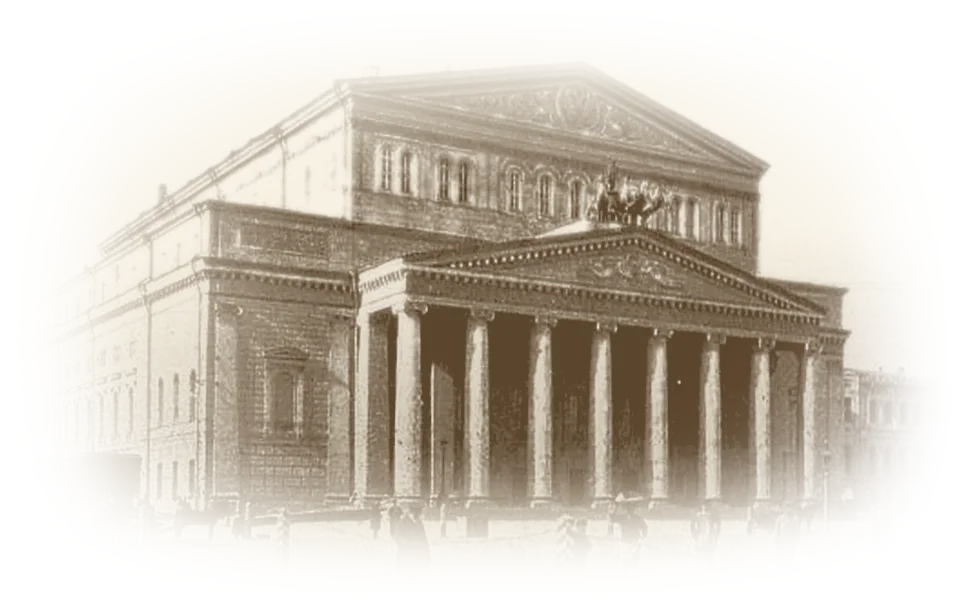
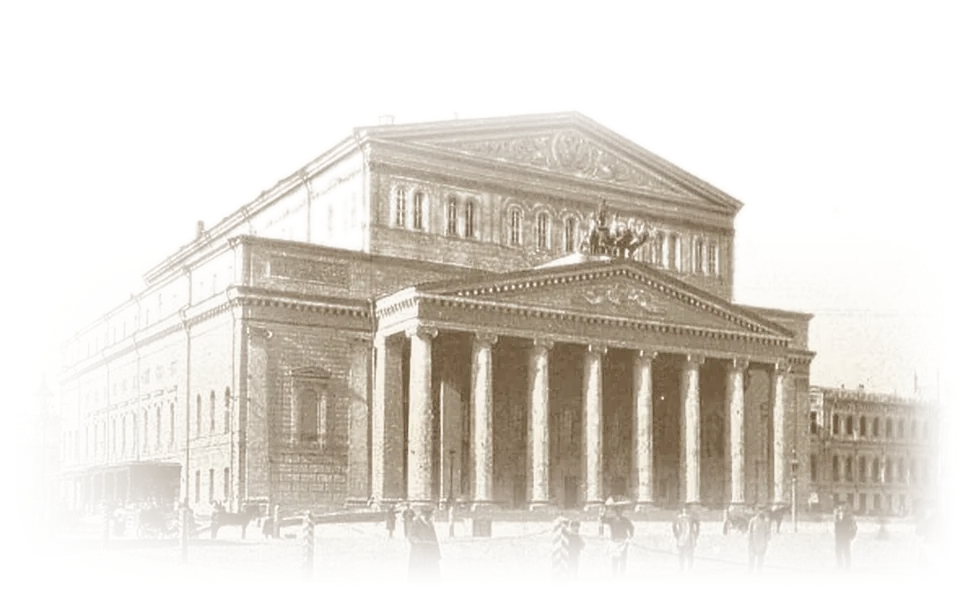
Hero: drop the Goznak photo; conservatory and Bolshoi in symmetry behind the figure
Owner's request. Both views share one tone curve and one ground line,
one CSS mask fades the panorama, and on phones the buildings now stand
behind the portrait instead of in a strip under the text.

Claude-Session: https://claude.ai/code/session_01KvyHv4d15xEBYz3aRTqu1A

diff --git a/about.html b/about.html
@@ -107,12 +107,10 @@ nav a.active::after{content:"";position:absolute;left:var(--s-3);right:var(--s-3
 
 /* ---------- Hero: the portrait before the three Moscow addresses ---------- */
 .hero{position:relative;isolation:isolate;overflow:hidden;padding-block:var(--s-5) var(--s-8);text-align:center}
-.city{position:absolute;z-index:-1;top:var(--s-6);left:50%;transform:translateX(-50%);width:min(100vw,1920px,152svh);display:flex;justify-content:center;align-items:flex-end;pointer-events:none}
-.city img{display:block;height:auto;max-width:none;flex:none}
-/* one continuous panorama: the side views overlap the theatre so no paper shows between them */
-.city-b{width:42%;z-index:0}
-.city-c{width:36%;margin-right:-8%;z-index:1}
-.city-g{width:36%;margin-left:-8%;z-index:1}
+.city{position:absolute;z-index:-1;top:var(--s-6);left:50%;transform:translateX(-50%);width:min(100vw,1600px,150svh);display:flex;justify-content:center;pointer-events:none;-webkit-mask-image:linear-gradient(90deg,transparent,#000 14%,#000 86%,transparent);mask-image:linear-gradient(90deg,transparent,#000 14%,#000 86%,transparent)}
+/* symmetry: two equal views meet on the axis, behind the figure */
+.city img{display:block;width:54%;height:auto;max-width:none;flex:none}
+.city-b{margin-left:-8%}
 .hero-stage{display:grid;justify-items:center}
 .portrait{margin:0;width:clamp(220px,34svh,320px)}
 .portrait img{display:block;width:100%;height:auto;aspect-ratio:2/3}
@@ -341,9 +339,8 @@ footer{border-top:1px solid var(--line);padding-block:var(--s-6) var(--s-7);colo
 }
 @media(max-width:620px){
   body{font-size:16px}
-  .hero{display:flex;flex-direction:column;padding-block:var(--s-3) var(--s-7)}
-  .city{order:2;position:static;transform:none;width:100%;display:grid;margin-top:var(--s-6);grid-template-columns:repeat(3,minmax(0,1fr));gap:var(--s-1);padding-inline:var(--s-2)}
-  .city-c,.city-g,.city-b{transform:none;margin:0;opacity:1;width:100%}
+  .hero{padding-block:var(--s-3) var(--s-7)}
+  .city{width:170vw;top:var(--s-8)}
   .portrait{width:62vw}
   .hero-copy{margin-top:calc(var(--s-7) * -1)}
   .btn{padding:0 var(--s-4);font-size:14px}
@@ -421,7 +418,7 @@ footer{border-top:1px solid var(--line);padding-block:var(--s-6) var(--s-7);colo
     <div class="reveal">
       <p>Независимый проект о жизни, музыке и педагогическом наследии Владислава Блажевича. Он не представляет Московскую консерваторию, библиотеки или исполнителей, на которых ссылается.</p>
       <p>В этой версии нет регистрации, сбора пожертвований и приёма конкурсных заявок. Проект не заявляет связи с историческими конкурсами имени Блажевича. Личный помощник и идея нового конкурса не входят в первый выпуск.</p>
-      <p class="note">Портрет на первом экране — художественное изображение, созданное с помощью ИИ по мотивам фотографии Блажевича 1903 года и тонированное в одну гамму с архивными снимками; это не историческая фотография. Исходная фотография 1903 года: <a href="https://commons.wikimedia.org/wiki/File:VM_Blazhevich_1903_Portrait_w-Signature.jpg">Wikimedia Commons</a>, общественное достояние (источник на Commons: А. Г. Харламов, ITA Journal, т. 36, № 3, 2008, с. 30–34). Фон первого экрана — тонированные фотографии из Wikimedia Commons: <a href="https://commons.wikimedia.org/wiki/File:Moscow_Cnservatory_1940-e.JPG">Московская консерватория имени Чайковского, 1940-е</a> и <a href="https://commons.wikimedia.org/wiki/File:Bolshoi_Theatre_1905.jpg">Большой театр, около 1905 года</a> (общественное достояние), <a href="https://commons.wikimedia.org/wiki/File:GoznakMainEntrance.jpg">Московская печатная фабрика «Гознак»</a> (снимок 2025 года, CC0).</p>
+      <p class="note">Портрет на первом экране — художественное изображение, созданное с помощью ИИ по мотивам фотографии Блажевича 1903 года и тонированное в одну гамму с архивными снимками; это не историческая фотография. Исходная фотография 1903 года: <a href="https://commons.wikimedia.org/wiki/File:VM_Blazhevich_1903_Portrait_w-Signature.jpg">Wikimedia Commons</a>, общественное достояние (источник на Commons: А. Г. Харламов, ITA Journal, т. 36, № 3, 2008, с. 30–34). Фон первого экрана — тонированные фотографии из Wikimedia Commons: <a href="https://commons.wikimedia.org/wiki/File:Moscow_Cnservatory_1940-e.JPG">Московская консерватория имени Чайковского, 1940-е</a> и <a href="https://commons.wikimedia.org/wiki/File:Bolshoi_Theatre_1905.jpg">Большой театр, около 1905 года</a> (общественное достояние).</p>
     </div>
     <div class="reveal">
       <h3>Прочитанные источники</h3>
@@ -440,7 +437,7 @@ footer{border-top:1px solid var(--line);padding-block:var(--s-6) var(--s-7);colo
         <li id="s8"><a href="https://www.krugosvet.ru/enc/kultura_i_obrazovanie/muzyka/BLAZHEVICH_VLADISLAV_MIHALOVICH.html">Энциклопедия «Кругосвет»</a>. <em class="st st-no">не открылась: сервер отклоняет подключение</em> Сведения из неё (годы в Большом театре и Персимфансе, кафедра) совпадают с источниками [1], [2] и [7]. Сведение об оркестре фабрики «Гознак» (с 1920 года) приведено по поисковой выдаче 9 ноября 2026 года; другими прочитанными источниками оно не подтверждено.</li>
         <li id="s9">А. Штильман, <a href="https://www.litres.ru/book/artur-shtilman/v-bolshom-teatre-i-metropoliten-opera-gody-zhizni-v-moskve-11961952/chitat-onlayn/">«В Большом театре и Метрополитен-опера»</a> (фрагмент о Райхмане); <a href="https://cyclowiki.org/wiki/Циклопедия:Списки:Преподаватели_Санкт-Петербургской_консерватории">Циклопедия: преподаватели Санкт-Петербургской консерватории</a> (Волков в этом списке отсутствует); <a href="https://conservatory.ru/x-letka/ads/vypusk-1942-goda-orkestrovye-dukhovye-i-udarnye-instrumenty">выпуск 1942 года</a>. <em class="st st-ok">прочитаны 8 ноября 2026</em></li>
         <li id="s10">J. M. Thompson, <a href="https://trombone.net/resources-events/reviews-list/review/?reviewid=1706">рецензия на «School for Trombone in Clefs» (East-West)</a>, ITA Journal 39:1, 2011, со списком американских изданий; <a href="https://trombone.org/reviews/view.php?id=224">Online Trombone Journal — рецензия на сборник «Before Blazhevich»</a>; библиотечная запись <a href="https://vaara.finna.fi/Record/vaarakirjastot.11126370">«Studies in Clefs», IMC, 1957</a>. <em class="st st-ok">прочитаны 8 ноября 2026</em></li>
-        <li id="s11">Иллюстрации (Wikimedia Commons): <a href="https://commons.wikimedia.org/wiki/File:VM_Blazhevich_1903_Portrait_w-Signature.jpg">фотография 1903 года с автографом (основа портрета; сама фотография — в биографии, глава «Консерватория и класс Борка»)</a>, <a href="https://commons.wikimedia.org/wiki/File:Bolshoi_Theatre_1905.jpg">Большой театр, около 1905</a>, <a href="https://commons.wikimedia.org/wiki/File:Moscow_Cnservatory_1940-e.JPG">Московская консерватория, 1940-е</a>, <a href="https://commons.wikimedia.org/wiki/File:GoznakMainEntrance.jpg">Московская печатная фабрика «Гознак»</a>.</li>
+        <li id="s11">Иллюстрации (Wikimedia Commons): <a href="https://commons.wikimedia.org/wiki/File:VM_Blazhevich_1903_Portrait_w-Signature.jpg">фотография 1903 года с автографом (основа портрета; сама фотография — в биографии, глава «Консерватория и класс Борка»)</a>, <a href="https://commons.wikimedia.org/wiki/File:Bolshoi_Theatre_1905.jpg">Большой театр, около 1905</a>, <a href="https://commons.wikimedia.org/wiki/File:Moscow_Cnservatory_1940-e.JPG">Московская консерватория, 1940-е</a>.</li>
         <li id="s12">«Вечерняя Москва»: Е. Пятунина, В. Богданов, <a href="https://vm.ru/society/114265-trubachi-pod-zvuki-marsha-bojcy-vyhodili-na-ulicy-stolicy">«Трубачи. Под звуки марша бойцы выходили на улицы столицы»</a>, 17 октября 2012; Е. Пятунина, <a href="https://vm.ru/society/551256-orkestr-nashej-pamyati">«Оркестр нашей памяти»</a>, 9 ноября 2017. <em class="st st-ok">прочитаны 9 ноября 2026</em></li>
       </ol>
       <p class="note">Номера в квадратных скобках в тексте ведут к этому списку. Пометка «читались целиком» означает только, что редакция сайта открывала эти страницы. Независимую проверку перед публикацией стоит провести отдельно, особенно для энциклопедии «Кругосвет» [8], которую открыть не удалось. Расхождения источников показаны в разделе биографии, а не исправлены молча. Права на конкретные нотные издания проверяются отдельно.</p>

diff --git a/src/ru/about.html b/src/ru/about.html
@@ -5,7 +5,7 @@
     <div class="reveal">
       <p>Независимый проект о жизни, музыке и педагогическом наследии Владислава Блажевича. Он не представляет Московскую консерваторию, библиотеки или исполнителей, на которых ссылается.</p>
       <p>В этой версии нет регистрации, сбора пожертвований и приёма конкурсных заявок. Проект не заявляет связи с историческими конкурсами имени Блажевича. Личный помощник и идея нового конкурса не входят в первый выпуск.</p>
-      <p class="note">Портрет на первом экране — художественное изображение, созданное с помощью ИИ по мотивам фотографии Блажевича 1903 года и тонированное в одну гамму с архивными снимками; это не историческая фотография. Исходная фотография 1903 года: <a href="https://commons.wikimedia.org/wiki/File:VM_Blazhevich_1903_Portrait_w-Signature.jpg">Wikimedia Commons</a>, общественное достояние (источник на Commons: А. Г. Харламов, ITA Journal, т. 36, № 3, 2008, с. 30–34). Фон первого экрана — тонированные фотографии из Wikimedia Commons: <a href="https://commons.wikimedia.org/wiki/File:Moscow_Cnservatory_1940-e.JPG">Московская консерватория имени Чайковского, 1940-е</a> и <a href="https://commons.wikimedia.org/wiki/File:Bolshoi_Theatre_1905.jpg">Большой театр, около 1905 года</a> (общественное достояние), <a href="https://commons.wikimedia.org/wiki/File:GoznakMainEntrance.jpg">Московская печатная фабрика «Гознак»</a> (снимок 2025 года, CC0).</p>
+      <p class="note">Портрет на первом экране — художественное изображение, созданное с помощью ИИ по мотивам фотографии Блажевича 1903 года и тонированное в одну гамму с архивными снимками; это не историческая фотография. Исходная фотография 1903 года: <a href="https://commons.wikimedia.org/wiki/File:VM_Blazhevich_1903_Portrait_w-Signature.jpg">Wikimedia Commons</a>, общественное достояние (источник на Commons: А. Г. Харламов, ITA Journal, т. 36, № 3, 2008, с. 30–34). Фон первого экрана — тонированные фотографии из Wikimedia Commons: <a href="https://commons.wikimedia.org/wiki/File:Moscow_Cnservatory_1940-e.JPG">Московская консерватория имени Чайковского, 1940-е</a> и <a href="https://commons.wikimedia.org/wiki/File:Bolshoi_Theatre_1905.jpg">Большой театр, около 1905 года</a> (общественное достояние).</p>
     </div>
     <div class="reveal">
       <h3>Прочитанные источники</h3>
@@ -24,7 +24,7 @@
         <li id="s8"><a href="https://www.krugosvet.ru/enc/kultura_i_obrazovanie/muzyka/BLAZHEVICH_VLADISLAV_MIHALOVICH.html">Энциклопедия «Кругосвет»</a>. <em class="st st-no">не открылась: сервер отклоняет подключение</em> Сведения из неё (годы в Большом театре и Персимфансе, кафедра) совпадают с источниками [1], [2] и [7]. Сведение об оркестре фабрики «Гознак» (с 1920 года) приведено по поисковой выдаче 9 ноября 2026 года; другими прочитанными источниками оно не подтверждено.</li>
         <li id="s9">А. Штильман, <a href="https://www.litres.ru/book/artur-shtilman/v-bolshom-teatre-i-metropoliten-opera-gody-zhizni-v-moskve-11961952/chitat-onlayn/">«В Большом театре и Метрополитен-опера»</a> (фрагмент о Райхмане); <a href="https://cyclowiki.org/wiki/Циклопедия:Списки:Преподаватели_Санкт-Петербургской_консерватории">Циклопедия: преподаватели Санкт-Петербургской консерватории</a> (Волков в этом списке отсутствует); <a href="https://conservatory.ru/x-letka/ads/vypusk-1942-goda-orkestrovye-dukhovye-i-udarnye-instrumenty">выпуск 1942 года</a>. <em class="st st-ok">прочитаны 8 ноября 2026</em></li>
         <li id="s10">J. M. Thompson, <a href="https://trombone.net/resources-events/reviews-list/review/?reviewid=1706">рецензия на «School for Trombone in Clefs» (East-West)</a>, ITA Journal 39:1, 2011, со списком американских изданий; <a href="https://trombone.org/reviews/view.php?id=224">Online Trombone Journal — рецензия на сборник «Before Blazhevich»</a>; библиотечная запись <a href="https://vaara.finna.fi/Record/vaarakirjastot.11126370">«Studies in Clefs», IMC, 1957</a>. <em class="st st-ok">прочитаны 8 ноября 2026</em></li>
-        <li id="s11">Иллюстрации (Wikimedia Commons): <a href="https://commons.wikimedia.org/wiki/File:VM_Blazhevich_1903_Portrait_w-Signature.jpg">фотография 1903 года с автографом (основа портрета; сама фотография — в биографии, глава «Консерватория и класс Борка»)</a>, <a href="https://commons.wikimedia.org/wiki/File:Bolshoi_Theatre_1905.jpg">Большой театр, около 1905</a>, <a href="https://commons.wikimedia.org/wiki/File:Moscow_Cnservatory_1940-e.JPG">Московская консерватория, 1940-е</a>, <a href="https://commons.wikimedia.org/wiki/File:GoznakMainEntrance.jpg">Московская печатная фабрика «Гознак»</a>.</li>
+        <li id="s11">Иллюстрации (Wikimedia Commons): <a href="https://commons.wikimedia.org/wiki/File:VM_Blazhevich_1903_Portrait_w-Signature.jpg">фотография 1903 года с автографом (основа портрета; сама фотография — в биографии, глава «Консерватория и класс Борка»)</a>, <a href="https://commons.wikimedia.org/wiki/File:Bolshoi_Theatre_1905.jpg">Большой театр, около 1905</a>, <a href="https://commons.wikimedia.org/wiki/File:Moscow_Cnservatory_1940-e.JPG">Московская консерватория, 1940-е</a>.</li>
         <li id="s12">«Вечерняя Москва»: Е. Пятунина, В. Богданов, <a href="https://vm.ru/society/114265-trubachi-pod-zvuki-marsha-bojcy-vyhodili-na-ulicy-stolicy">«Трубачи. Под звуки марша бойцы выходили на улицы столицы»</a>, 17 октября 2012; Е. Пятунина, <a href="https://vm.ru/society/551256-orkestr-nashej-pamyati">«Оркестр нашей памяти»</a>, 9 ноября 2017. <em class="st st-ok">прочитаны 9 ноября 2026</em></li>
       </ol>
       <p class="note">Номера в квадратных скобках в тексте ведут к этому списку. Пометка «читались целиком» означает только, что редакция сайта открывала эти страницы. Независимую проверку перед публикацией стоит провести отдельно, особенно для энциклопедии «Кругосвет» [8], которую открыть не удалось. Расхождения источников показаны в разделе биографии, а не исправлены молча. Права на конкретные нотные издания проверяются отдельно.</p>

diff --git a/en/index.html b/en/index.html
@@ -109,12 +109,10 @@ nav a.active::after{content:"";position:absolute;left:var(--s-3);right:var(--s-3
 
 /* ---------- Hero: the portrait before the three Moscow addresses ---------- */
 .hero{position:relative;isolation:isolate;overflow:hidden;padding-block:var(--s-5) var(--s-8);text-align:center}
-.city{position:absolute;z-index:-1;top:var(--s-6);left:50%;transform:translateX(-50%);width:min(100vw,1920px,152svh);display:flex;justify-content:center;align-items:flex-end;pointer-events:none}
-.city img{display:block;height:auto;max-width:none;flex:none}
-/* one continuous panorama: the side views overlap the theatre so no paper shows between them */
-.city-b{width:42%;z-index:0}
-.city-c{width:36%;margin-right:-8%;z-index:1}
-.city-g{width:36%;margin-left:-8%;z-index:1}
+.city{position:absolute;z-index:-1;top:var(--s-6);left:50%;transform:translateX(-50%);width:min(100vw,1600px,150svh);display:flex;justify-content:center;pointer-events:none;-webkit-mask-image:linear-gradient(90deg,transparent,#000 14%,#000 86%,transparent);mask-image:linear-gradient(90deg,transparent,#000 14%,#000 86%,transparent)}
+/* symmetry: two equal views meet on the axis, behind the figure */
+.city img{display:block;width:54%;height:auto;max-width:none;flex:none}
+.city-b{margin-left:-8%}
 .hero-stage{display:grid;justify-items:center}
 .portrait{margin:0;width:clamp(220px,34svh,320px)}
 .portrait img{display:block;width:100%;height:auto;aspect-ratio:2/3}
@@ -343,9 +341,8 @@ footer{border-top:1px solid var(--line);padding-block:var(--s-6) var(--s-7);colo
 }
 @media(max-width:620px){
   body{font-size:16px}
-  .hero{display:flex;flex-direction:column;padding-block:var(--s-3) var(--s-7)}
-  .city{order:2;position:static;transform:none;width:100%;display:grid;margin-top:var(--s-6);grid-template-columns:repeat(3,minmax(0,1fr));gap:var(--s-1);padding-inline:var(--s-2)}
-  .city-c,.city-g,.city-b{transform:none;margin:0;opacity:1;width:100%}
+  .hero{padding-block:var(--s-3) var(--s-7)}
+  .city{width:170vw;top:var(--s-8)}
   .portrait{width:62vw}
   .hero-copy{margin-top:calc(var(--s-7) * -1)}
   .btn{padding:0 var(--s-4);font-size:14px}
@@ -417,7 +414,7 @@ footer{border-top:1px solid var(--line);padding-block:var(--s-6) var(--s-7);colo
 </div></header>
 <main id="main">
 <section id="hero" class="hero" aria-labelledby="hero-title">
-  <div class="city" aria-hidden="true"><img class="city-c" src="../assets/conservatory-1940s.webp" width="960" height="600" alt=""><img class="city-b" src="../assets/bolshoi-1905.webp" width="960" height="600" alt=""><img class="city-g" src="../assets/goznak-moscow.webp" width="960" height="600" alt=""></div>
+  <div class="city" aria-hidden="true"><img class="city-c" src="../assets/conservatory-1940s.webp" width="960" height="600" alt=""><img class="city-b" src="../assets/bolshoi-1905.webp" width="960" height="600" alt=""></div>
   <div class="wrap hero-stage">
     <figure class="portrait">
       <img src="../assets/blazhevich-portrait.webp" srcset="../assets/blazhevich-portrait-683.webp 683w, ../assets/blazhevich-portrait.webp 1024w" sizes="(max-width:620px) 62vw, 340px" width="1024" height="1536" fetchpriority="high" alt="Artistic portrait of Vladislav Blazhevich in an early 20th-century suit">
@@ -713,7 +710,7 @@ footer{border-top:1px solid var(--line);padding-block:var(--s-6) var(--s-7);colo
     <div class="reveal">
       <p>An independent project about the life, music and teaching legacy of Vladislav Blazhevich. It does not represent the Moscow Conservatory, the libraries or the performers it links to. The Russian version is the primary one; this English page follows it. Bracketed source numbers here match the English list below, not the Russian one.</p>
       <p><a class="btn btn-ghost" href="../index.html">Русская версия →</a></p>
-      <p class="note">The portrait is an AI-generated artistic image based on a 1903 photograph of Blazhevich (<a href="https://commons.wikimedia.org/wiki/File:VM_Blazhevich_1903_Portrait_w-Signature.jpg">Wikimedia Commons</a>, public domain), toned to match the archive photographs. It is not a historical photograph. The opening screen backdrop shows the Tchaikovsky Moscow Conservatory in the 1940s and the Bolshoi Theatre around 1905 (public domain), and the <a href="https://commons.wikimedia.org/wiki/File:GoznakMainEntrance.jpg">Goznak Moscow Printing Factory</a> (2025 photograph, CC0).</p>
+      <p class="note">The portrait is an AI-generated artistic image based on a 1903 photograph of Blazhevich (<a href="https://commons.wikimedia.org/wiki/File:VM_Blazhevich_1903_Portrait_w-Signature.jpg">Wikimedia Commons</a>, public domain), toned to match the archive photographs. It is not a historical photograph. The opening screen backdrop shows the Tchaikovsky Moscow Conservatory in the 1940s and the Bolshoi Theatre around 1905 (public domain).</p>
     </div>
     <div class="reveal">
       <h3>Sources</h3>

diff --git a/index.html b/index.html
@@ -109,12 +109,10 @@ nav a.active::after{content:"";position:absolute;left:var(--s-3);right:var(--s-3
 
 /* ---------- Hero: the portrait before the three Moscow addresses ---------- */
 .hero{position:relative;isolation:isolate;overflow:hidden;padding-block:var(--s-5) var(--s-8);text-align:center}
-.city{position:absolute;z-index:-1;top:var(--s-6);left:50%;transform:translateX(-50%);width:min(100vw,1920px,152svh);display:flex;justify-content:center;align-items:flex-end;pointer-events:none}
-.city img{display:block;height:auto;max-width:none;flex:none}
-/* one continuous panorama: the side views overlap the theatre so no paper shows between them */
-.city-b{width:42%;z-index:0}
-.city-c{width:36%;margin-right:-8%;z-index:1}
-.city-g{width:36%;margin-left:-8%;z-index:1}
+.city{position:absolute;z-index:-1;top:var(--s-6);left:50%;transform:translateX(-50%);width:min(100vw,1600px,150svh);display:flex;justify-content:center;pointer-events:none;-webkit-mask-image:linear-gradient(90deg,transparent,#000 14%,#000 86%,transparent);mask-image:linear-gradient(90deg,transparent,#000 14%,#000 86%,transparent)}
+/* symmetry: two equal views meet on the axis, behind the figure */
+.city img{display:block;width:54%;height:auto;max-width:none;flex:none}
+.city-b{margin-left:-8%}
 .hero-stage{display:grid;justify-items:center}
 .portrait{margin:0;width:clamp(220px,34svh,320px)}
 .portrait img{display:block;width:100%;height:auto;aspect-ratio:2/3}
@@ -343,9 +341,8 @@ footer{border-top:1px solid var(--line);padding-block:var(--s-6) var(--s-7);colo
 }
 @media(max-width:620px){
   body{font-size:16px}
-  .hero{display:flex;flex-direction:column;padding-block:var(--s-3) var(--s-7)}
-  .city{order:2;position:static;transform:none;width:100%;display:grid;margin-top:var(--s-6);grid-template-columns:repeat(3,minmax(0,1fr));gap:var(--s-1);padding-inline:var(--s-2)}
-  .city-c,.city-g,.city-b{transform:none;margin:0;opacity:1;width:100%}
+  .hero{padding-block:var(--s-3) var(--s-7)}
+  .city{width:170vw;top:var(--s-8)}
   .portrait{width:62vw}
   .hero-copy{margin-top:calc(var(--s-7) * -1)}
   .btn{padding:0 var(--s-4);font-size:14px}
@@ -417,7 +414,7 @@ footer{border-top:1px solid var(--line);padding-block:var(--s-6) var(--s-7);colo
 </div></header>
 <main id="main">
 <section id="hero" class="hero" aria-labelledby="hero-title">
-  <div class="city" aria-hidden="true"><img class="city-c" src="assets/conservatory-1940s.webp" width="960" height="600" alt=""><img class="city-b" src="assets/bolshoi-1905.webp" width="960" height="600" alt=""><img class="city-g" src="assets/goznak-moscow.webp" width="960" height="600" alt=""></div>
+  <div class="city" aria-hidden="true"><img class="city-c" src="assets/conservatory-1940s.webp" width="960" height="600" alt=""><img class="city-b" src="assets/bolshoi-1905.webp" width="960" height="600" alt=""></div>
   <div class="wrap hero-stage">
     <figure class="portrait">
       <img src="assets/blazhevich-portrait.webp" srcset="assets/blazhevich-portrait-683.webp 683w, assets/blazhevich-portrait.webp 1024w" sizes="(max-width:620px) 62vw, 340px" width="1024" height="1536" fetchpriority="high" alt="Художественный портрет Владислава Блажевича в костюме начала XX века">

diff --git a/src/en/page.html b/src/en/page.html
@@ -1,5 +1,5 @@
 <section id="hero" class="hero" aria-labelledby="hero-title">
-  <div class="city" aria-hidden="true"><img class="city-c" src="assets/conservatory-1940s.webp" width="960" height="600" alt=""><img class="city-b" src="assets/bolshoi-1905.webp" width="960" height="600" alt=""><img class="city-g" src="assets/goznak-moscow.webp" width="960" height="600" alt=""></div>
+  <div class="city" aria-hidden="true"><img class="city-c" src="assets/conservatory-1940s.webp" width="960" height="600" alt=""><img class="city-b" src="assets/bolshoi-1905.webp" width="960" height="600" alt=""></div>
   <div class="wrap hero-stage">
     <figure class="portrait">
       <img src="assets/blazhevich-portrait.webp" srcset="assets/blazhevich-portrait-683.webp 683w, assets/blazhevich-portrait.webp 1024w" sizes="(max-width:620px) 62vw, 340px" width="1024" height="1536" fetchpriority="high" alt="Artistic portrait of Vladislav Blazhevich in an early 20th-century suit">
@@ -295,7 +295,7 @@
     <div class="reveal">
       <p>An independent project about the life, music and teaching legacy of Vladislav Blazhevich. It does not represent the Moscow Conservatory, the libraries or the performers it links to. The Russian version is the primary one; this English page follows it. Bracketed source numbers here match the English list below, not the Russian one.</p>
       <p><a class="btn btn-ghost" href="../index.html">Русская версия →</a></p>
-      <p class="note">The portrait is an AI-generated artistic image based on a 1903 photograph of Blazhevich (<a href="https://commons.wikimedia.org/wiki/File:VM_Blazhevich_1903_Portrait_w-Signature.jpg">Wikimedia Commons</a>, public domain), toned to match the archive photographs. It is not a historical photograph. The opening screen backdrop shows the Tchaikovsky Moscow Conservatory in the 1940s and the Bolshoi Theatre around 1905 (public domain), and the <a href="https://commons.wikimedia.org/wiki/File:GoznakMainEntrance.jpg">Goznak Moscow Printing Factory</a> (2025 photograph, CC0).</p>
+      <p class="note">The portrait is an AI-generated artistic image based on a 1903 photograph of Blazhevich (<a href="https://commons.wikimedia.org/wiki/File:VM_Blazhevich_1903_Portrait_w-Signature.jpg">Wikimedia Commons</a>, public domain), toned to match the archive photographs. It is not a historical photograph. The opening screen backdrop shows the Tchaikovsky Moscow Conservatory in the 1940s and the Bolshoi Theatre around 1905 (public domain).</p>
     </div>
     <div class="reveal">
       <h3>Sources</h3>

diff --git a/biography.html b/biography.html
@@ -107,12 +107,10 @@ nav a.active::after{content:"";position:absolute;left:var(--s-3);right:var(--s-3
 
 /* ---------- Hero: the portrait before the three Moscow addresses ---------- */
 .hero{position:relative;isolation:isolate;overflow:hidden;padding-block:var(--s-5) var(--s-8);text-align:center}
-.city{position:absolute;z-index:-1;top:var(--s-6);left:50%;transform:translateX(-50%);width:min(100vw,1920px,152svh);display:flex;justify-content:center;align-items:flex-end;pointer-events:none}
-.city img{display:block;height:auto;max-width:none;flex:none}
-/* one continuous panorama: the side views overlap the theatre so no paper shows between them */
-.city-b{width:42%;z-index:0}
-.city-c{width:36%;margin-right:-8%;z-index:1}
-.city-g{width:36%;margin-left:-8%;z-index:1}
+.city{position:absolute;z-index:-1;top:var(--s-6);left:50%;transform:translateX(-50%);width:min(100vw,1600px,150svh);display:flex;justify-content:center;pointer-events:none;-webkit-mask-image:linear-gradient(90deg,transparent,#000 14%,#000 86%,transparent);mask-image:linear-gradient(90deg,transparent,#000 14%,#000 86%,transparent)}
+/* symmetry: two equal views meet on the axis, behind the figure */
+.city img{display:block;width:54%;height:auto;max-width:none;flex:none}
+.city-b{margin-left:-8%}
 .hero-stage{display:grid;justify-items:center}
 .portrait{margin:0;width:clamp(220px,34svh,320px)}
 .portrait img{display:block;width:100%;height:auto;aspect-ratio:2/3}
@@ -341,9 +339,8 @@ footer{border-top:1px solid var(--line);padding-block:var(--s-6) var(--s-7);colo
 }
 @media(max-width:620px){
   body{font-size:16px}
-  .hero{display:flex;flex-direction:column;padding-block:var(--s-3) var(--s-7)}
-  .city{order:2;position:static;transform:none;width:100%;display:grid;margin-top:var(--s-6);grid-template-columns:repeat(3,minmax(0,1fr));gap:var(--s-1);padding-inline:var(--s-2)}
-  .city-c,.city-g,.city-b{transform:none;margin:0;opacity:1;width:100%}
+  .hero{padding-block:var(--s-3) var(--s-7)}
+  .city{width:170vw;top:var(--s-8)}
   .portrait{width:62vw}
   .hero-copy{margin-top:calc(var(--s-7) * -1)}
   .btn{padding:0 var(--s-4);font-size:14px}

diff --git a/concertos.html b/concertos.html
@@ -107,12 +107,10 @@ nav a.active::after{content:"";position:absolute;left:var(--s-3);right:var(--s-3
 
 /* ---------- Hero: the portrait before the three Moscow addresses ---------- */
 .hero{position:relative;isolation:isolate;overflow:hidden;padding-block:var(--s-5) var(--s-8);text-align:center}
-.city{position:absolute;z-index:-1;top:var(--s-6);left:50%;transform:translateX(-50%);width:min(100vw,1920px,152svh);display:flex;justify-content:center;align-items:flex-end;pointer-events:none}
-.city img{display:block;height:auto;max-width:none;flex:none}
-/* one continuous panorama: the side views overlap the theatre so no paper shows between them */
-.city-b{width:42%;z-index:0}
-.city-c{width:36%;margin-right:-8%;z-index:1}
-.city-g{width:36%;margin-left:-8%;z-index:1}
+.city{position:absolute;z-index:-1;top:var(--s-6);left:50%;transform:translateX(-50%);width:min(100vw,1600px,150svh);display:flex;justify-content:center;pointer-events:none;-webkit-mask-image:linear-gradient(90deg,transparent,#000 14%,#000 86%,transparent);mask-image:linear-gradient(90deg,transparent,#000 14%,#000 86%,transparent)}
+/* symmetry: two equal views meet on the axis, behind the figure */
+.city img{display:block;width:54%;height:auto;max-width:none;flex:none}
+.city-b{margin-left:-8%}
 .hero-stage{display:grid;justify-items:center}
 .portrait{margin:0;width:clamp(220px,34svh,320px)}
 .portrait img{display:block;width:100%;height:auto;aspect-ratio:2/3}
@@ -341,9 +339,8 @@ footer{border-top:1px solid var(--line);padding-block:var(--s-6) var(--s-7);colo
 }
 @media(max-width:620px){
   body{font-size:16px}
-  .hero{display:flex;flex-direction:column;padding-block:var(--s-3) var(--s-7)}
-  .city{order:2;position:static;transform:none;width:100%;display:grid;margin-top:var(--s-6);grid-template-columns:repeat(3,minmax(0,1fr));gap:var(--s-1);padding-inline:var(--s-2)}
-  .city-c,.city-g,.city-b{transform:none;margin:0;opacity:1;width:100%}
+  .hero{padding-block:var(--s-3) var(--s-7)}
+  .city{width:170vw;top:var(--s-8)}
   .portrait{width:62vw}
   .hero-copy{margin-top:calc(var(--s-7) * -1)}
   .btn{padding:0 var(--s-4);font-size:14px}

diff --git a/leningrad.html b/leningrad.html
@@ -107,12 +107,10 @@ nav a.active::after{content:"";position:absolute;left:var(--s-3);right:var(--s-3
 
 /* ---------- Hero: the portrait before the three Moscow addresses ---------- */
 .hero{position:relative;isolation:isolate;overflow:hidden;padding-block:var(--s-5) var(--s-8);text-align:center}
-.city{position:absolute;z-index:-1;top:var(--s-6);left:50%;transform:translateX(-50%);width:min(100vw,1920px,152svh);display:flex;justify-content:center;align-items:flex-end;pointer-events:none}
-.city img{display:block;height:auto;max-width:none;flex:none}
-/* one continuous panorama: the side views overlap the theatre so no paper shows between them */
-.city-b{width:42%;z-index:0}
-.city-c{width:36%;margin-right:-8%;z-index:1}
-.city-g{width:36%;margin-left:-8%;z-index:1}
+.city{position:absolute;z-index:-1;top:var(--s-6);left:50%;transform:translateX(-50%);width:min(100vw,1600px,150svh);display:flex;justify-content:center;pointer-events:none;-webkit-mask-image:linear-gradient(90deg,transparent,#000 14%,#000 86%,transparent);mask-image:linear-gradient(90deg,transparent,#000 14%,#000 86%,transparent)}
+/* symmetry: two equal views meet on the axis, behind the figure */
+.city img{display:block;width:54%;height:auto;max-width:none;flex:none}
+.city-b{margin-left:-8%}
 .hero-stage{display:grid;justify-items:center}
 .portrait{margin:0;width:clamp(220px,34svh,320px)}
 .portrait img{display:block;width:100%;height:auto;aspect-ratio:2/3}
@@ -341,9 +339,8 @@ footer{border-top:1px solid var(--line);padding-block:var(--s-6) var(--s-7);colo
 }
 @media(max-width:620px){
   body{font-size:16px}
-  .hero{display:flex;flex-direction:column;padding-block:var(--s-3) var(--s-7)}
-  .city{order:2;position:static;transform:none;width:100%;display:grid;margin-top:var(--s-6);grid-template-columns:repeat(3,minmax(0,1fr));gap:var(--s-1);padding-inline:var(--s-2)}
-  .city-c,.city-g,.city-b{transform:none;margin:0;opacity:1;width:100%}
+  .hero{padding-block:var(--s-3) var(--s-7)}
+  .city{width:170vw;top:var(--s-8)}
   .portrait{width:62vw}
   .hero-copy{margin-top:calc(var(--s-7) * -1)}
   .btn{padding:0 var(--s-4);font-size:14px}

diff --git a/moscow.html b/moscow.html
@@ -107,12 +107,10 @@ nav a.active::after{content:"";position:absolute;left:var(--s-3);right:var(--s-3
 
 /* ---------- Hero: the portrait before the three Moscow addresses ---------- */
 .hero{position:relative;isolation:isolate;overflow:hidden;padding-block:var(--s-5) var(--s-8);text-align:center}
-.city{position:absolute;z-index:-1;top:var(--s-6);left:50%;transform:translateX(-50%);width:min(100vw,1920px,152svh);display:flex;justify-content:center;align-items:flex-end;pointer-events:none}
-.city img{display:block;height:auto;max-width:none;flex:none}
-/* one continuous panorama: the side views overlap the theatre so no paper shows between them */
-.city-b{width:42%;z-index:0}
-.city-c{width:36%;margin-right:-8%;z-index:1}
-.city-g{width:36%;margin-left:-8%;z-index:1}
+.city{position:absolute;z-index:-1;top:var(--s-6);left:50%;transform:translateX(-50%);width:min(100vw,1600px,150svh);display:flex;justify-content:center;pointer-events:none;-webkit-mask-image:linear-gradient(90deg,transparent,#000 14%,#000 86%,transparent);mask-image:linear-gradient(90deg,transparent,#000 14%,#000 86%,transparent)}
+/* symmetry: two equal views meet on the axis, behind the figure */
+.city img{display:block;width:54%;height:auto;max-width:none;flex:none}
+.city-b{margin-left:-8%}
 .hero-stage{display:grid;justify-items:center}
 .portrait{margin:0;width:clamp(220px,34svh,320px)}
 .portrait img{display:block;width:100%;height:auto;aspect-ratio:2/3}
@@ -341,9 +339,8 @@ footer{border-top:1px solid var(--line);padding-block:var(--s-6) var(--s-7);colo
 }
 @media(max-width:620px){
   body{font-size:16px}
-  .hero{display:flex;flex-direction:column;padding-block:var(--s-3) var(--s-7)}
-  .city{order:2;position:static;transform:none;width:100%;display:grid;margin-top:var(--s-6);grid-template-columns:repeat(3,minmax(0,1fr));gap:var(--s-1);padding-inline:var(--s-2)}
-  .city-c,.city-g,.city-b{transform:none;margin:0;opacity:1;width:100%}
+  .hero{padding-block:var(--s-3) var(--s-7)}
+  .city{width:170vw;top:var(--s-8)}
   .portrait{width:62vw}
   .hero-copy{margin-top:calc(var(--s-7) * -1)}
   .btn{padding:0 var(--s-4);font-size:14px}

diff --git a/schools.html b/schools.html
@@ -107,12 +107,10 @@ nav a.active::after{content:"";position:absolute;left:var(--s-3);right:var(--s-3
 
 /* ---------- Hero: the portrait before the three Moscow addresses ---------- */
 .hero{position:relative;isolation:isolate;overflow:hidden;padding-block:var(--s-5) var(--s-8);text-align:center}
-.city{position:absolute;z-index:-1;top:var(--s-6);left:50%;transform:translateX(-50%);width:min(100vw,1920px,152svh);display:flex;justify-content:center;align-items:flex-end;pointer-events:none}
-.city img{display:block;height:auto;max-width:none;flex:none}
-/* one continuous panorama: the side views overlap the theatre so no paper shows between them */
-.city-b{width:42%;z-index:0}
-.city-c{width:36%;margin-right:-8%;z-index:1}
-.city-g{width:36%;margin-left:-8%;z-index:1}
+.city{position:absolute;z-index:-1;top:var(--s-6);left:50%;transform:translateX(-50%);width:min(100vw,1600px,150svh);display:flex;justify-content:center;pointer-events:none;-webkit-mask-image:linear-gradient(90deg,transparent,#000 14%,#000 86%,transparent);mask-image:linear-gradient(90deg,transparent,#000 14%,#000 86%,transparent)}
+/* symmetry: two equal views meet on the axis, behind the figure */
+.city img{display:block;width:54%;height:auto;max-width:none;flex:none}
+.city-b{margin-left:-8%}
 .hero-stage{display:grid;justify-items:center}
 .portrait{margin:0;width:clamp(220px,34svh,320px)}
 .portrait img{display:block;width:100%;height:auto;aspect-ratio:2/3}
@@ -341,9 +339,8 @@ footer{border-top:1px solid var(--line);padding-block:var(--s-6) var(--s-7);colo
 }
 @media(max-width:620px){
   body{font-size:16px}
-  .hero{display:flex;flex-direction:column;padding-block:var(--s-3) var(--s-7)}
-  .city{order:2;position:static;transform:none;width:100%;display:grid;margin-top:var(--s-6);grid-template-columns:repeat(3,minmax(0,1fr));gap:var(--s-1);padding-inline:var(--s-2)}
-  .city-c,.city-g,.city-b{transform:none;margin:0;opacity:1;width:100%}
+  .hero{padding-block:var(--s-3) var(--s-7)}
+  .city{width:170vw;top:var(--s-8)}
   .portrait{width:62vw}
   .hero-copy{margin-top:calc(var(--s-7) * -1)}
   .btn{padding:0 var(--s-4);font-size:14px}

diff --git a/usa.html b/usa.html
@@ -107,12 +107,10 @@ nav a.active::after{content:"";position:absolute;left:var(--s-3);right:var(--s-3
 
 /* ---------- Hero: the portrait before the three Moscow addresses ---------- */
 .hero{position:relative;isolation:isolate;overflow:hidden;padding-block:var(--s-5) var(--s-8);text-align:center}
-.city{position:absolute;z-index:-1;top:var(--s-6);left:50%;transform:translateX(-50%);width:min(100vw,1920px,152svh);display:flex;justify-content:center;align-items:flex-end;pointer-events:none}
-.city img{display:block;height:auto;max-width:none;flex:none}
-/* one continuous panorama: the side views overlap the theatre so no paper shows between them */
-.city-b{width:42%;z-index:0}
-.city-c{width:36%;margin-right:-8%;z-index:1}
-.city-g{width:36%;margin-left:-8%;z-index:1}
+.city{position:absolute;z-index:-1;top:var(--s-6);left:50%;transform:translateX(-50%);width:min(100vw,1600px,150svh);display:flex;justify-content:center;pointer-events:none;-webkit-mask-image:linear-gradient(90deg,transparent,#000 14%,#000 86%,transparent);mask-image:linear-gradient(90deg,transparent,#000 14%,#000 86%,transparent)}
+/* symmetry: two equal views meet on the axis, behind the figure */
+.city img{display:block;width:54%;height:auto;max-width:none;flex:none}
+.city-b{margin-left:-8%}
 .hero-stage{display:grid;justify-items:center}
 .portrait{margin:0;width:clamp(220px,34svh,320px)}
 .portrait img{display:block;width:100%;height:auto;aspect-ratio:2/3}
@@ -341,9 +339,8 @@ footer{border-top:1px solid var(--line);padding-block:var(--s-6) var(--s-7);colo
 }
 @media(max-width:620px){
   body{font-size:16px}
-  .hero{display:flex;flex-direction:column;padding-block:var(--s-3) var(--s-7)}
-  .city{order:2;position:static;transform:none;width:100%;display:grid;margin-top:var(--s-6);grid-template-columns:repeat(3,minmax(0,1fr));gap:var(--s-1);padding-inline:var(--s-2)}
-  .city-c,.city-g,.city-b{transform:none;margin:0;opacity:1;width:100%}
+  .hero{padding-block:var(--s-3) var(--s-7)}
+  .city{width:170vw;top:var(--s-8)}
   .portrait{width:62vw}
   .hero-copy{margin-top:calc(var(--s-7) * -1)}
   .btn{padding:0 var(--s-4);font-size:14px}

diff --git a/src/style.css b/src/style.css
@@ -85,12 +85,10 @@ nav a.active::after{content:"";position:absolute;left:var(--s-3);right:var(--s-3
 
 /* ---------- Hero: the portrait before the three Moscow addresses ---------- */
 .hero{position:relative;isolation:isolate;overflow:hidden;padding-block:var(--s-5) var(--s-8);text-align:center}
-.city{position:absolute;z-index:-1;top:var(--s-6);left:50%;transform:translateX(-50%);width:min(100vw,1920px,152svh);display:flex;justify-content:center;align-items:flex-end;pointer-events:none}
-.city img{display:block;height:auto;max-width:none;flex:none}
-/* one continuous panorama: the side views overlap the theatre so no paper shows between them */
-.city-b{width:42%;z-index:0}
-.city-c{width:36%;margin-right:-8%;z-index:1}
-.city-g{width:36%;margin-left:-8%;z-index:1}
+.city{position:absolute;z-index:-1;top:var(--s-6);left:50%;transform:translateX(-50%);width:min(100vw,1600px,150svh);display:flex;justify-content:center;pointer-events:none;-webkit-mask-image:linear-gradient(90deg,transparent,#000 14%,#000 86%,transparent);mask-image:linear-gradient(90deg,transparent,#000 14%,#000 86%,transparent)}
+/* symmetry: two equal views meet on the axis, behind the figure */
+.city img{display:block;width:54%;height:auto;max-width:none;flex:none}
+.city-b{margin-left:-8%}
 .hero-stage{display:grid;justify-items:center}
 .portrait{margin:0;width:clamp(220px,34svh,320px)}
 .portrait img{display:block;width:100%;height:auto;aspect-ratio:2/3}
@@ -319,9 +317,8 @@ footer{border-top:1px solid var(--line);padding-block:var(--s-6) var(--s-7);colo
 }
 @media(max-width:620px){
   body{font-size:16px}
-  .hero{display:flex;flex-direction:column;padding-block:var(--s-3) var(--s-7)}
-  .city{order:2;position:static;transform:none;width:100%;display:grid;margin-top:var(--s-6);grid-template-columns:repeat(3,minmax(0,1fr));gap:var(--s-1);padding-inline:var(--s-2)}
-  .city-c,.city-g,.city-b{transform:none;margin:0;opacity:1;width:100%}
+  .hero{padding-block:var(--s-3) var(--s-7)}
+  .city{width:170vw;top:var(--s-8)}
   .portrait{width:62vw}
   .hero-copy{margin-top:calc(var(--s-7) * -1)}
   .btn{padding:0 var(--s-4);font-size:14px}
